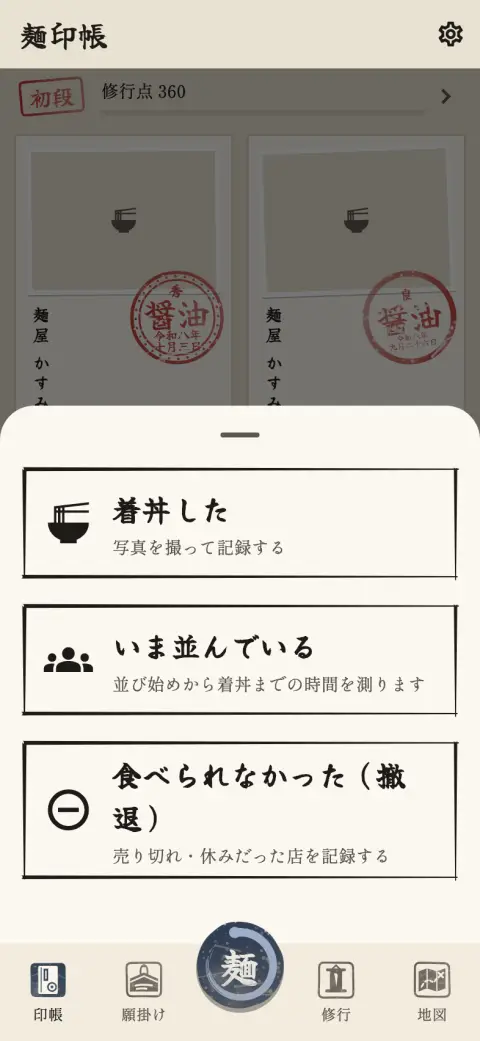
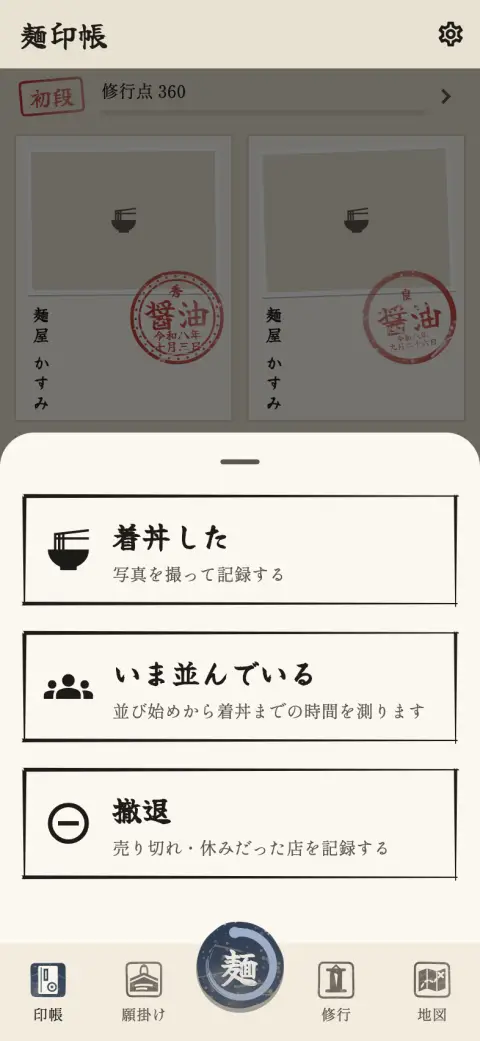
入力欄の例を「例:」付きの薄い字にし、判子の窓の撤退を1行にする (#389)

Changed region(s): [[0.0, 0.3689, 1.0, 0.83], [0.4062, 0.7992, 0.8125, 0.83]]

diff --git a/lib/l10n/app_localizations_ja.dart b/lib/l10n/app_localizations_ja.dart
@@ -52,7 +52,7 @@ class AppLocalizationsJa extends AppLocalizations {
   String get startQueueBody => '並び始めから着丼までの時間を測ります';
 
   @override
-  String get startRetreatTitle => '食べられなかった（撤退）';
+  String get startRetreatTitle => '撤退';
 
   @override
   String get startRetreatBody => '売り切れ・休みだった店を記録する';
@@ -214,7 +214,7 @@ class AppLocalizationsJa extends AppLocalizations {
   String get memoLabel => 'この一杯について';
 
   @override
-  String get memoHint => '麺かため。前よりスープが濃い';
+  String get memoHint => '例: 麺かため。前よりスープが濃い';
 
   @override
   String get memoHelper => 'この日の一杯の感想';
@@ -707,7 +707,7 @@ class AppLocalizationsJa extends AppLocalizations {
   String get shopMemoEmpty => 'まだありません';
 
   @override
-  String get shopMemoHint => '券売機は現金のみ／11時前に着けば一巡目';
+  String get shopMemoHint => '例: 券売機は現金のみ／11時前に着けば一巡目';
 
   @override
   String get shopMemoNeedsShop => '店を決めると書けます';
@@ -768,13 +768,13 @@ class AppLocalizationsJa extends AppLocalizations {
   String get wishTrigger => 'きっかけ（任意）';
 
   @override
-  String get wishTriggerHint => '同僚に聞いた・テレビで見た など';
+  String get wishTriggerHint => '例: 同僚に聞いた・テレビで見た';
 
   @override
   String get wishNote => 'ひとこと（任意）';
 
   @override
-  String get wishNoteHint => '限定の煮干しを食べたい など';
+  String get wishNoteHint => '例: 限定の煮干しを食べたい';
 
   @override
   String get wishLink => 'リンク（任意）';
@@ -1855,7 +1855,7 @@ class AppLocalizationsJa extends AppLocalizations {
   String get helpRetreatTitle => '撤退';
 
   @override
-  String get helpRetreat => '売り切れや休みで食べられなかったときは、「麺」→「食べられなかった（撤退）」で残せます。';
+  String get helpRetreat => '売り切れや休みで食べられなかったときは、「麺」→「撤退」で残せます。';
 
   @override
   String get helpRatingTitle => '★をあとで付ける';

diff --git a/lib/l10n/app_localizations.dart b/lib/l10n/app_localizations.dart
@@ -181,7 +181,7 @@ abstract class AppLocalizations {
   /// No description provided for @startRetreatTitle.
   ///
   /// In ja, this message translates to:
-  /// **'食べられなかった（撤退）'**
+  /// **'撤退'**
   String get startRetreatTitle;
 
   /// No description provided for @startRetreatBody.
@@ -469,7 +469,7 @@ abstract class AppLocalizations {
   /// No description provided for @memoHint.
   ///
   /// In ja, this message translates to:
-  /// **'麺かため。前よりスープが濃い'**
+  /// **'例: 麺かため。前よりスープが濃い'**
   String get memoHint;
 
   /// No description provided for @memoHelper.
@@ -1321,7 +1321,7 @@ abstract class AppLocalizations {
   /// No description provided for @shopMemoHint.
   ///
   /// In ja, this message translates to:
-  /// **'券売機は現金のみ／11時前に着けば一巡目'**
+  /// **'例: 券売機は現金のみ／11時前に着けば一巡目'**
   String get shopMemoHint;
 
   /// No description provided for @shopMemoNeedsShop.
@@ -1429,7 +1429,7 @@ abstract class AppLocalizations {
   /// No description provided for @wishTriggerHint.
   ///
   /// In ja, this message translates to:
-  /// **'同僚に聞いた・テレビで見た など'**
+  /// **'例: 同僚に聞いた・テレビで見た'**
   String get wishTriggerHint;
 
   /// No description provided for @wishNote.
@@ -1441,7 +1441,7 @@ abstract class AppLocalizations {
   /// No description provided for @wishNoteHint.
   ///
   /// In ja, this message translates to:
-  /// **'限定の煮干しを食べたい など'**
+  /// **'例: 限定の煮干しを食べたい'**
   String get wishNoteHint;
 
   /// No description provided for @wishLink.
@@ -3295,7 +3295,7 @@ abstract class AppLocalizations {
   /// No description provided for @helpRetreat.
   ///
   /// In ja, this message translates to:
-  /// **'売り切れや休みで食べられなかったときは、「麺」→「食べられなかった（撤退）」で残せます。'**
+  /// **'売り切れや休みで食べられなかったときは、「麺」→「撤退」で残せます。'**
   String get helpRetreat;
 
   /// No description provided for @helpRatingTitle.

diff --git a/lib/features/analytics/analytics_events.dart b/lib/features/analytics/analytics_events.dart
@@ -282,7 +282,7 @@ abstract final class AnalyticsEvents {
         'waited_min': bucket(waitedMinutes),
       });
 
-  /// 並ばずに、判子の窓の「食べられなかった（撤退）」から残した撤退。
+  /// 並ばずに、判子の窓の「撤退」から残した撤退。
   static AnalyticsEvent retreatRecorded({required ShopSourceKind shopSource}) =>
       AnalyticsEvent('retreat_recorded', {'shop_source': shopSource.name});
 

diff --git a/lib/theme/app_theme.dart b/lib/theme/app_theme.dart
@@ -101,6 +101,8 @@ ThemeData buildAppTheme() {
     inputDecorationTheme: const InputDecorationTheme(
       filled: true,
       fillColor: Washi.page,
+      // 入れた字と見分けられるよう、未入力の例は薄くする。
+      hintStyle: TextStyle(color: Washi.faded),
       border: OutlineInputBorder(
         borderSide: BorderSide(color: Washi.line),
         borderRadius: BorderRadius.all(Radius.circular(4)),

diff --git a/docs/decisions/2026-10-07-retreat-without-queue.md b/docs/decisions/2026-10-07-retreat-without-queue.md
@@ -1,6 +1,6 @@
 # 並んでいなくても撤退を残せる
 
 - 日付: 2026-10-07
-- 決定: 真ん中の判子の窓に3つ目「食べられなかった（撤退）」を足す。押すと撤退した店を選ぶ画面になり、現在地の近くの候補（記録した店・願の店を含む）・店名を打ったときの記録した店と願の店・店名の手入力から選ぶ。撤退は店を離れてから残すこともあるので、並ぶときの100m の制限はかけず、手入力の店には位置を付けない。店を決めたら、並び中と同じ撤退の窓（理由のチップとメモ）で記録し、保存後の知らせ・願掛け帳に入れる・再挑戦成功の判定も並び中の撤退と同じにする（待ち時間はつかない）。願の店を選んだときは願を増やさず、その願を記録の店に結び付ける。並んでいる最中は判子が「着」のままで、並びの撤退は今までどおり帯から行う
+- 決定: 真ん中の判子の窓に3つ目「撤退」を足す（2026-10-08 に「食べられなかった（撤退）」から短くした。1行に収めるため。下の説明で意味がわかる）。押すと撤退した店を選ぶ画面になり、現在地の近くの候補（記録した店・願の店を含む）・店名を打ったときの記録した店と願の店・店名の手入力から選ぶ。撤退は店を離れてから残すこともあるので、並ぶときの100m の制限はかけず、手入力の店には位置を付けない。店を決めたら、並び中と同じ撤退の窓（理由のチップとメモ）で記録し、保存後の知らせ・願掛け帳に入れる・再挑戦成功の判定も並び中の撤退と同じにする（待ち時間はつかない）。願の店を選んだときは願を増やさず、その願を記録の店に結び付ける。並んでいる最中は判子が「着」のままで、並びの撤退は今までどおり帯から行う
 - 理由: 店に着いたら閉まっていた・売り切れだったときに、先に並ぶ（100m 以内）必要があることに気づけなかったため（利用調査）。入口は利用者が選んだ
 - 関連: #310

diff --git a/CLAUDE.md b/CLAUDE.md
@@ -108,7 +108,7 @@
 - 並んでいる間は、どのタブでも上に並びの帯（店名・経過時間・店の覚え書き・取り消す・撤退）を出し、判子が「着」に変わる。並び中の通知も出る
 - 着丼したら「着」を押す。押した時刻で待ち時間（＝着丼までの時間）が決まり、すぐカメラが開く。撮っても撮らなくても、並んだ店を選んだ記録画面になり、「着丼！」で保存して並びを終える。別の店を選んで保存したときは待ち時間をつけず、並びを続ける
 - 並びは取り消せる。3時間を超えたら自動で取り消す
-- 「撤退」で食べられなかった記録（売り切れ・臨時休業など）を残し、その店を願掛け帳に入れる。次に同じ店で食べると「再挑戦成功」。並んでいなくても、判子の窓の「食べられなかった（撤退）」から店を選んで残せる（距離の制限なし。待ち時間はつかない）
+- 「撤退」で食べられなかった記録（売り切れ・臨時休業など）を残し、その店を願掛け帳に入れる。次に同じ店で食べると「再挑戦成功」。並んでいなくても、判子の窓の「撤退」から店を選んで残せる（距離の制限なし。待ち時間はつかない）
 
 ### 見る・集める
 - **印帳**（タブ）: 1杯＝1ページ、新しい順。写真・縦書きの店名・印。タップでその店のページ（「この道場の印」から1杯を選ぶ。道中記・店の覚え書き・名店の印・地図アプリで開く・共有カード・編集・削除）。上に「一年前の今日」、12月・1月は年の振り返りの案内
